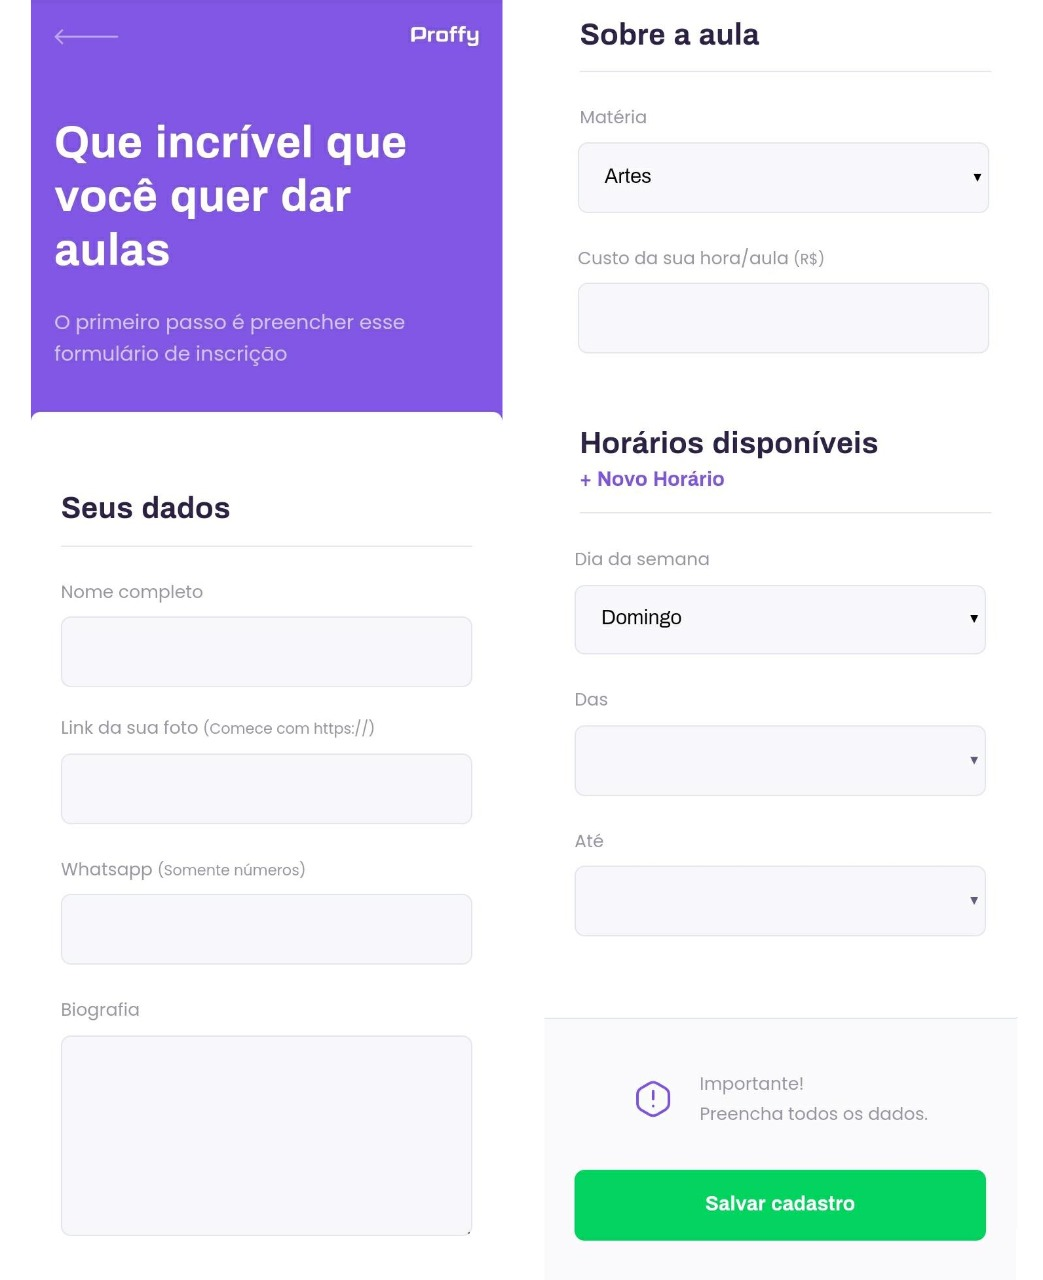
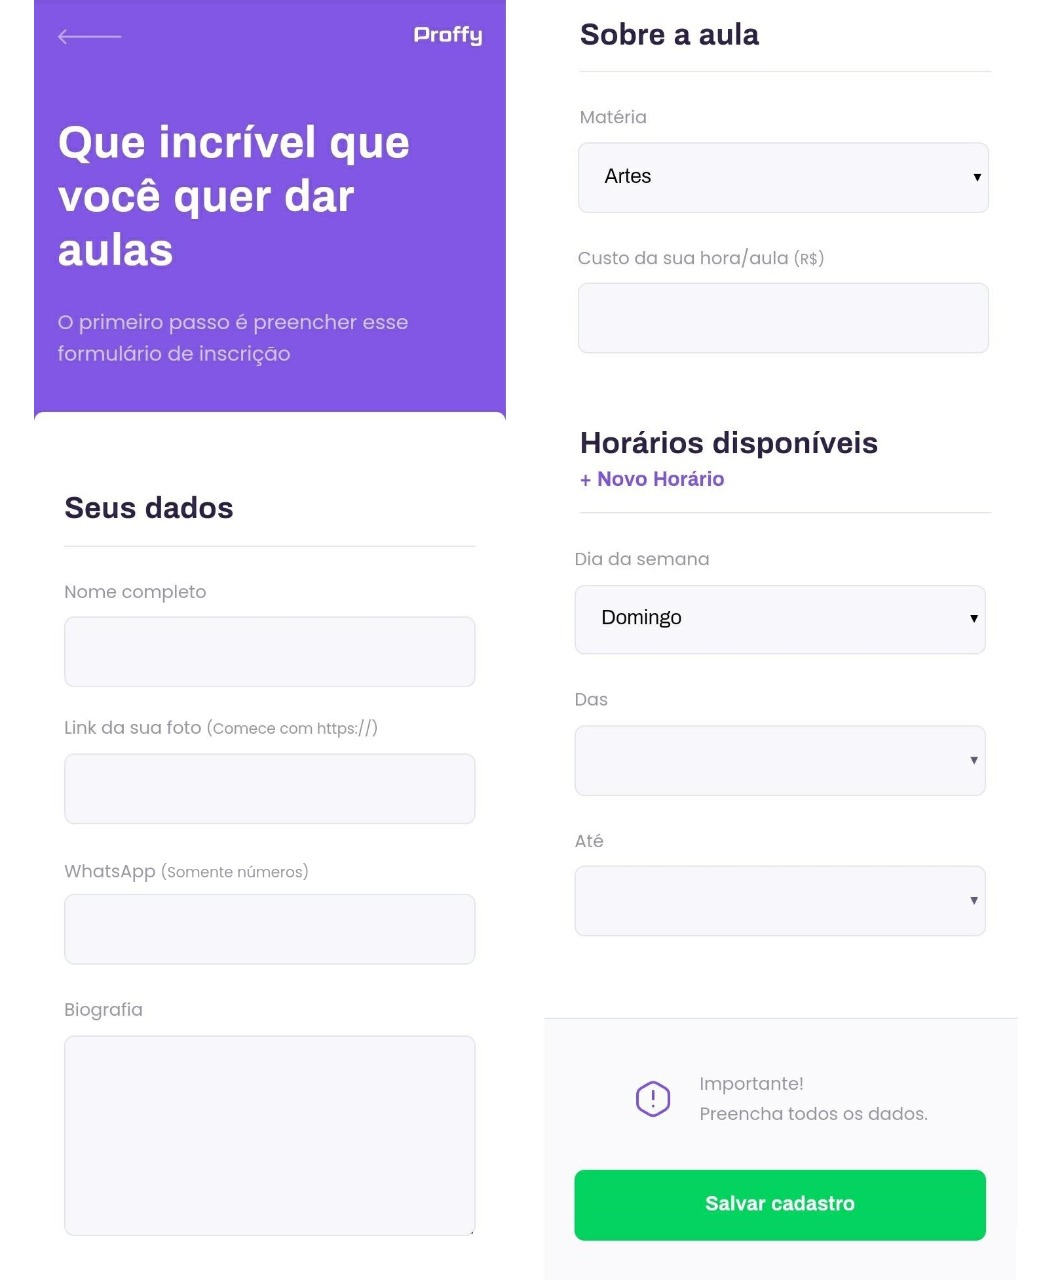
Ajustes no layout

diff --git a/README.md b/README.md
@@ -21,7 +21,7 @@
 ## :computer: Projeto
 
 Proffy - É uma plataforma online que ajuda pessoas que desejam aprender, sobre determinada matéria, com professores que desejam ensinar.
-O projeto é desenvolvido para que estudantes e professores possam se conectar. Os professores realizam o cadastro na plataforma inserindo algumas informações como nome, matéria, horário disponíveis e whatsapp para contato.
+O projeto é desenvolvido para que estudantes e professores possam se conectar. Os professores realizam o cadastro na plataforma inserindo algumas informações como nome, matéria, horário disponíveis e whatsApp para contato.
 
 Projeto desenvolvido durante a **NLW - Next Level Week#2** oferecida pela [Rocketseat](https://www.rocketseat.com.br).
 O NLW é uma experiência online com muito conteúdo prático e desafios onde o conteúdo fica disponível durante uma semana.
